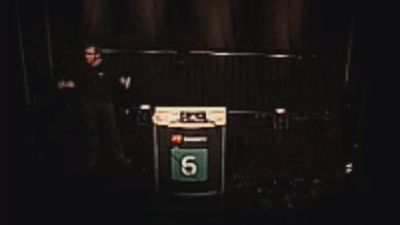
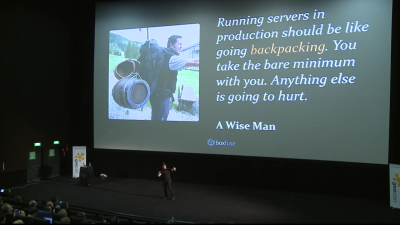
Updated ii en talk video

diff --git a/_posts/2015-10-17-immutable-infrastructure-and-cloud-talks.html b/_posts/2015-10-17-immutable-infrastructure-and-cloud-talks.html
@@ -18,7 +18,7 @@ permalink: /blog/immutable-infrastructure-and-cloud-talks.html
     <script async class="speakerdeck-embed" data-id="58a39a45b30d4d1f9c0a0737035cb928" data-ratio="1.77777777777778" src="//speakerdeck.com/assets/embed.js"></script>
 
     <p>&nbsp;</p>
-    <iframe src="https://player.vimeo.com/video/105851488" width="770" height="469" frameborder="0" webkitallowfullscreen mozallowfullscreen allowfullscreen></iframe> <p><a href="https://vimeo.com/105851488">Immutable Server Generation: the new App Deployment - Axel Fontaine</a> from <a href="https://vimeo.com/javazone">JavaZone</a> on <a href="https://vimeo.com">Vimeo</a>.</p>
+    <iframe src="https://player.vimeo.com/video/130993909" width="770" height="469" frameborder="0" webkitallowfullscreen mozallowfullscreen allowfullscreen></iframe> <p><a href="https://vimeo.com/130993909">Immutable Server Generation: the new App Deployment - Axel Fontaine</a> from <a href="https://vimeo.com/javazone">JavaZone</a> on <a href="https://vimeo.com">Vimeo</a>.</p>
 
     <p>&nbsp;</p>
     <p>&nbsp;</p>

diff --git a/index.html b/index.html
@@ -379,7 +379,7 @@ pill: home
         <div class="tabbable tabs-below">
             <div class="tab-content img-polaroid talk">
                 <div class="tab-pane active" id="talk-ii-en">
-                    <a href="https://vimeo.com/105851488"><i class="fa fa-play-circle-o"></i></a>
+                    <a href="https://vimeo.com/130993909"><i class="fa fa-play-circle-o"></i></a>
                 </div>
                 <div class="tab-pane" id="talk-ii-de">
                     <a href="https://vimeo.com/111829945"><i class="fa fa-play-circle-o"></i></a>
